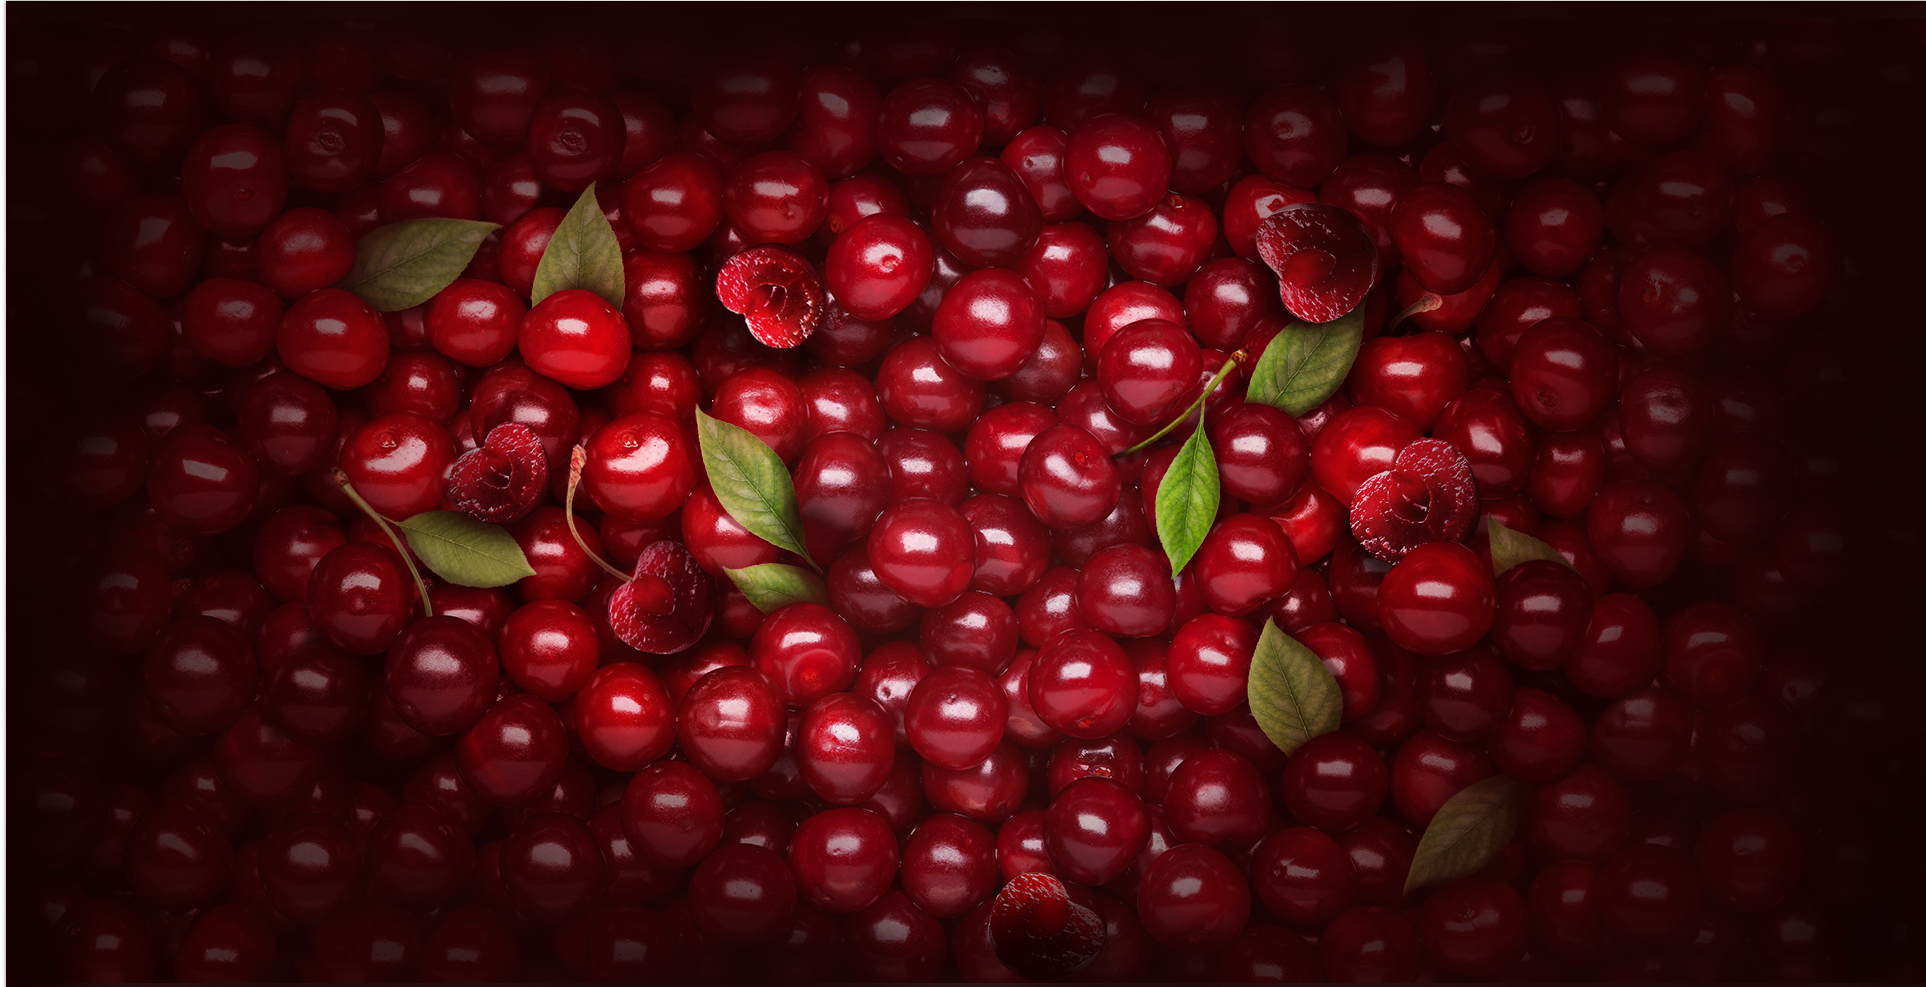
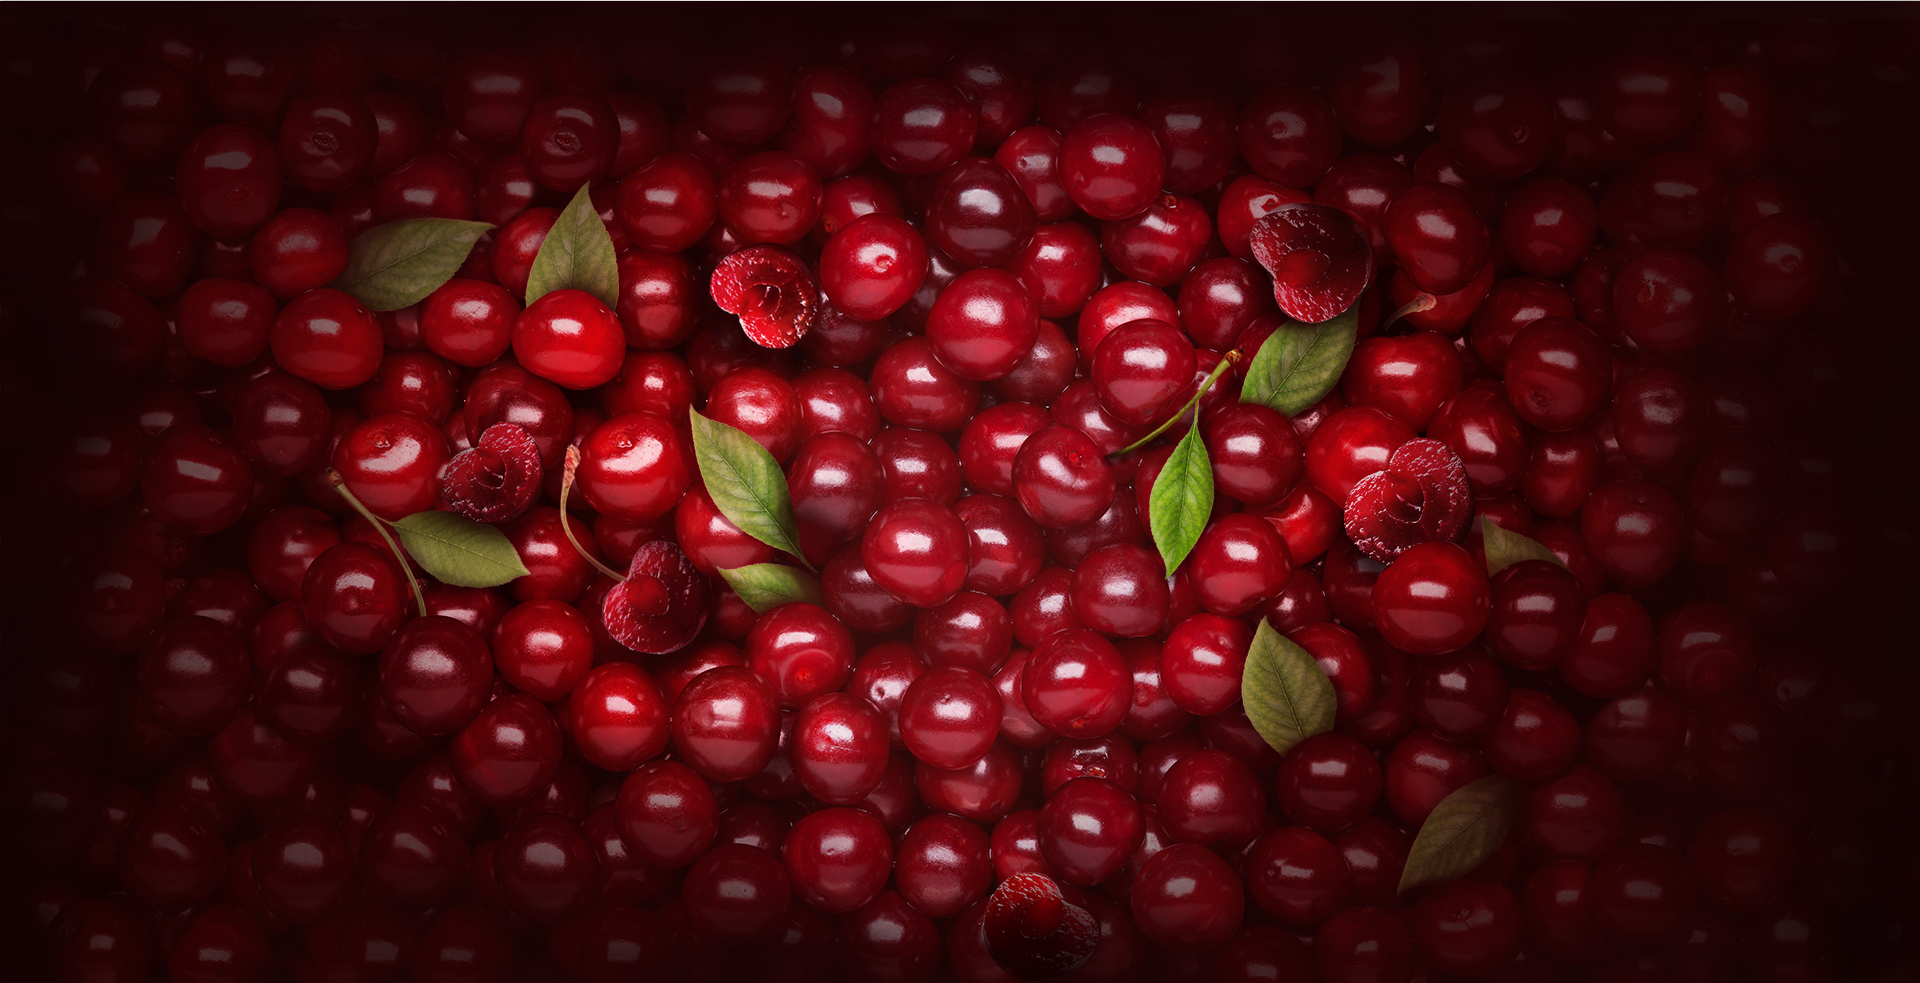
fix

diff --git a/index.css b/index.css
@@ -6,30 +6,13 @@ body {
   overflow: hidden;
 }
 
-.falling-cherries {
-  position: relative;
-  top: -40px;
-  width: 100%;
-  height: 110vh;
-  background-image: url(./assets/dropcherry.png);
-  animation: falling 4s infinite linear;
-  animation-play-state: paused;
-}
-
-.container {
-  position: absolute;
-  width: 100%;
-  bottom: 0;
-  animation: appearing 4s linear;
-  animation-play-state: paused;
-}
-
 .half {
   position: relative;
   bottom: -15px;
   width: 100%;
   height: 100vh;
-  background-size: 100% 100%;
+  background-size: cover;
+  background-position: center;
   background-image: url(./assets/cherrymask.png);
 }
 
@@ -38,7 +21,31 @@ body {
   width: 100%;
   height: 100vh;
   background-image: url(./assets/cherry.png);
-  background-size: 100% 100%;
+  background-size: cover;
+  background-position: center;
+}
+
+.falling-cherries {
+  position: relative;
+  top: -40px;
+  width: 100%;
+  height: 110vh;
+  background-image: url(./assets/dropcherry.png);
+  animation: falling 2s infinite linear;
+  animation-play-state: paused;
+}
+
+.container {
+  position: absolute;
+  width: 100%;
+  bottom: 0;
+  animation: appearing 6s linear;
+  animation-play-state: paused;
+}
+
+.reverse {
+  animation-play-state: running;
+  animation-direction: reverse;
 }
 
 .running {
@@ -60,14 +67,5 @@ body {
   }
   to {
     transform: translateY(0vh);
-  }
-}
-
-@keyframes filling {
-  from {
-    transform: translateY(200vh);
-  }
-  to {
-    transform: translateY(0);
   }
 }

diff --git a/index.js b/index.js
@@ -5,16 +5,50 @@ const container = document.querySelector(".container");
 
 let isScrolling;
 
-window.addEventListener(
-  "wheel",
-  function(event) {
-    window.clearTimeout(isScrolling);
+function detectMouseWheelDirection(e) {
+  let delta = null,
+    direction = false;
+  if (!e) {
+    e = window.event;
+  }
+  if (e.wheelDelta) {
+    delta = e.wheelDelta / 60;
+  } else if (e.detail) {
+    delta = -e.detail / 2;
+  }
+  if (delta !== null) {
+    direction = delta > 0 ? "up" : "down";
+  }
+
+  return direction;
+}
+
+function handleMouseWheelDirection(direction) {
+  console.log(direction);
+  window.clearTimeout(isScrolling);
+  if (direction == "down") {
     fallingCherry.classList.add("running");
     container.classList.add("running");
     isScrolling = setTimeout(function() {
       fallingCherry.classList.remove("running");
       container.classList.remove("running");
     }, 66);
-  },
-  false
-);
+  } else if (direction == "up") {
+    fallingCherry.classList.add("running");
+    container.classList.add("running");
+    isScrolling = setTimeout(function() {
+      fallingCherry.classList.remove("running");
+      container.classList.remove("running");
+    }, 66);
+  } else {
+  }
+}
+
+document.onmousewheel = function(e) {
+  handleMouseWheelDirection(detectMouseWheelDirection(e));
+};
+if (window.addEventListener) {
+  document.addEventListener("DOMMouseScroll", function(e) {
+    handleMouseWheelDirection(detectMouseWheelDirection(e));
+  });
+}

diff --git a/index.html b/index.html
@@ -6,7 +6,7 @@
     <title>Document</title>
     <link rel="stylesheet" href="index.css" />
   </head>
-  <body id="#id">
+  <body>
     <div class="falling-cherries" id="falling-cherries"></div>
     <div class="container">
       <div class="half"></div>
